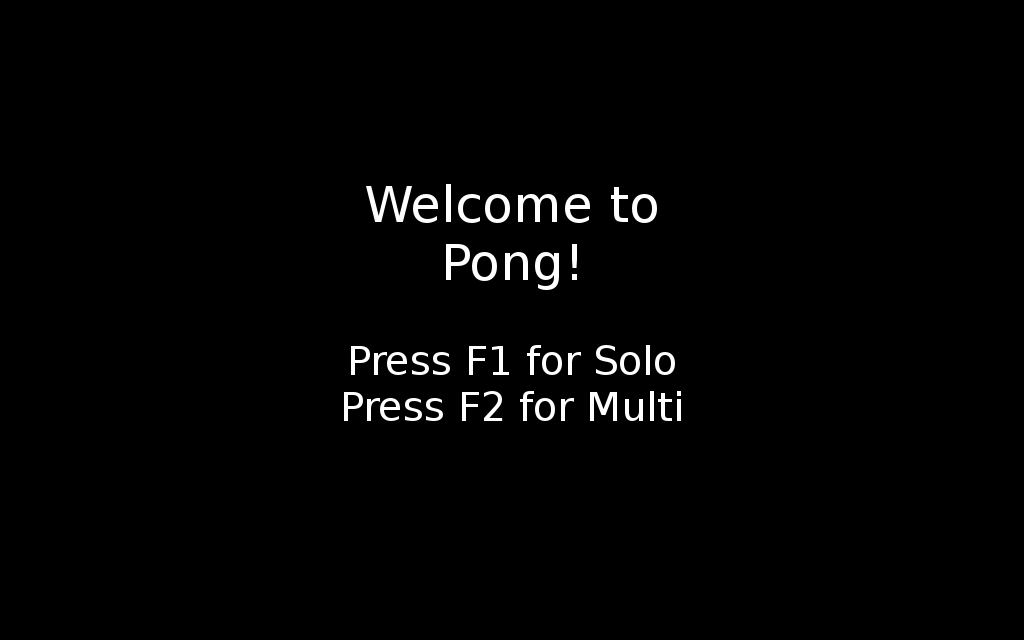
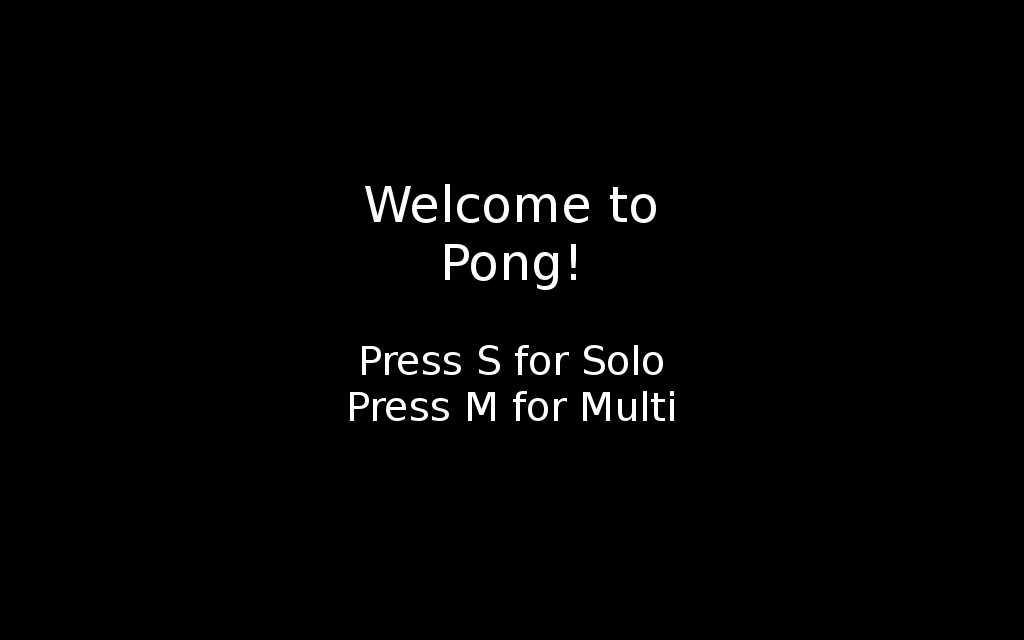
fancy commands for QWERTY users!

diff --git a/pong.py b/pong.py
@@ -65,10 +65,10 @@ while 1:
                 pygame.quit()
 
             if event.type == KEYDOWN:
-                if event.key == K_F1:
+                if event.key == K_s:
                     solo = True
                     welcome, new_game = init_new_game()
-                elif event.key == K_F2:
+                elif event.key == K_m:
                     solo = False
                     welcome, new_game = init_new_game()
 
@@ -140,7 +140,7 @@ while 1:
                 elif pressed_keys[K_DOWN]:
                     player2.move('down')
 
-            if pressed_keys[K_z]:
+            if pressed_keys[K_z] or pressed_keys[K_w]:
                 player1.move('up')
             elif pressed_keys[K_s]:
                 player1.move('down')

diff --git a/README.md b/README.md
@@ -6,9 +6,14 @@ I created this in during summer 2017 in order to become familiar with the pygame
   
 The game is currently functional but still buggy and needs fixing that I could not implement yet.
 
-## Running  
+## Instructions    
 **pygame is required to run the game**  
-To play the game, just run the pong.py file and use key arrows to play ! You can exit by clicking the cross or pressing ESC  
+To play the game, just run the pong.py file
+
+Player 1 : press Z/W and S to move the paddle  
+Player 2 : press key arrows up and down to move the paddle  
+  
+You can exit by clicking the cross or pressing ESC  
   
 Note that if the ball hits the top half of the paddle, then it will be moving upwards, and vice versa.  
 
